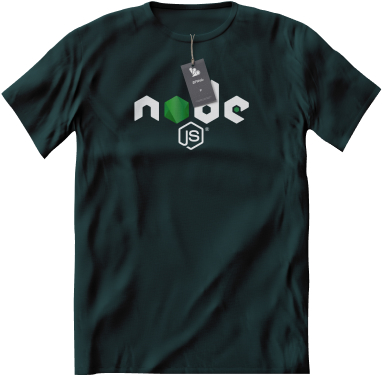
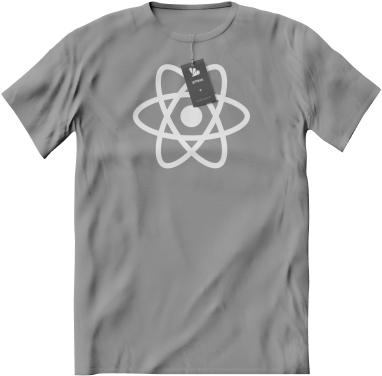
fix: seed & images

diff --git a/prisma/seed.ts b/prisma/seed.ts
@@ -101,7 +101,7 @@ async function main() {
             data: {
                 label: 'Camisa RN',
                 price: 89.90,
-                description: 'Camisa com estampa de Node.js, perfeita para desenvolvedores',
+                description: 'Camisa com estampa de React Native, perfeita para desenvolvedores',
                 categoryId: category.id
             }
         }),
@@ -161,7 +161,7 @@ async function main() {
             data: {
                 productId: products[0].id,
                 categoryMetadataId: 'tech',
-                metadataValueId: 'node'
+                metadataValueId: 'react'
             }
         }),
         prisma.productMetadata.create({
